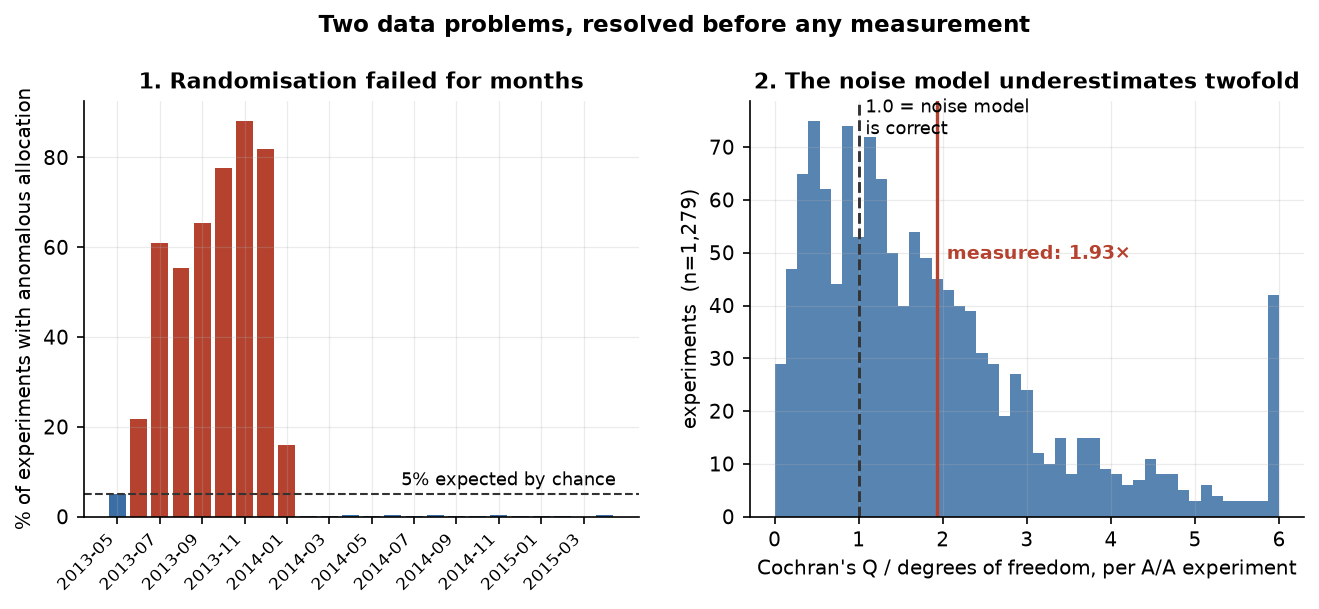
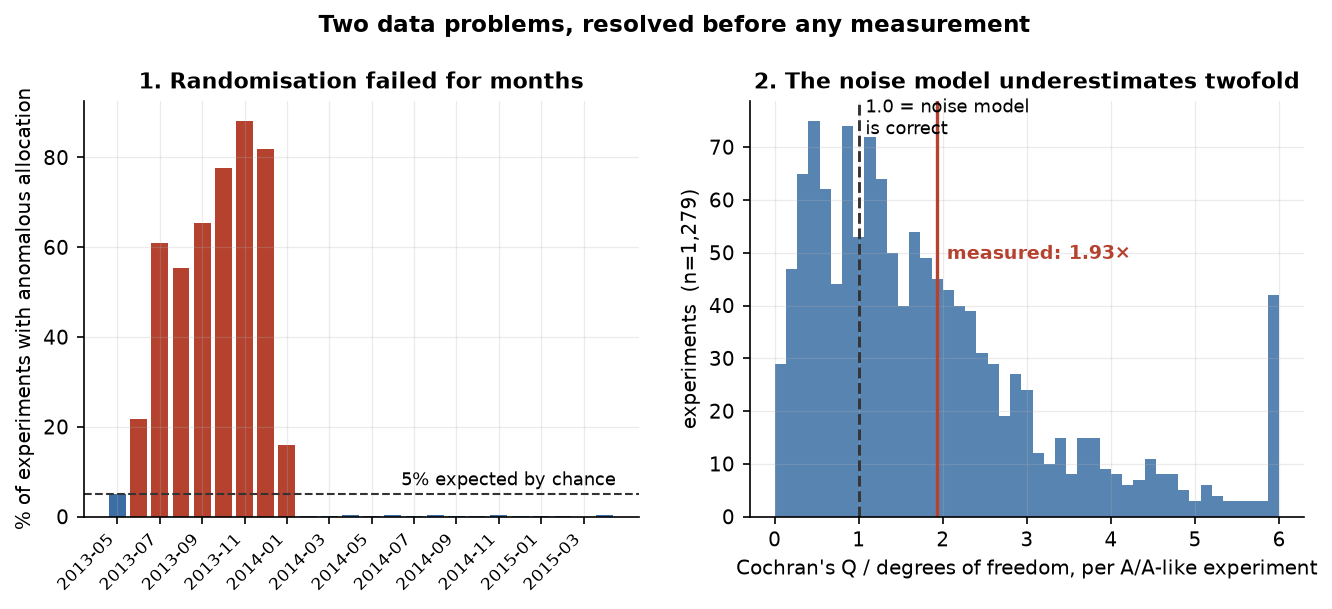
Release pass: semantic and bibliographic consistency before v1.0.0
A seventh review found no analysis problem. Everything here is text,
with one figure label and one reproducibility recipe.

The bibliographic error worth naming: papers.md cited the Upworthy
author correction as 10.1038/s41597-024-03575-8. The correction is
10.1038/s41597-024-03600-w, which is the one verified earlier in this
work for the affected window and the 7,004 tests. I could not confirm
what 03575-8 actually is and make no claim about it.

A real reproducibility defect: the lock file's header said "to
reproduce the published figures: pip install -r requirements-lock.txt".
The snapshot comes from pip freeze --exclude-editable, so wcab is not
in it, and with a src/ layout nothing is importable afterwards. The
recipe now pins the dependencies and then adds the project with
--no-deps.

A logical contradiction I introduced in the previous commit: "a 0.8 pp
bar reflects this archive's costs and margins" sits a few lines from
the statement that the archive contains no costs or margins. The
thresholds are illustrative practical-effect bars and now say so.

Terminology, carried through the modules rather than only the README:
noise.py asserted that the true difference in an A/A experiment is
"zero by construction" and then explained that unpublished fields may
have varied. Both cannot hold. These are A/A-like experiments inferred
from recorded treatment fields, the zero-effect premise is an
assumption, and the design factor is a working variance multiplier
[…]

diff --git a/src/wcab/diagnostics/noise.py b/src/wcab/diagnostics/noise.py
@@ -5,13 +5,16 @@ there is a closed form — p(1-p)/n — but that formula assumes an arm's impres
 are independent, and in online experimentation they rarely are: the same visitor
 may see several, and there are time-of-day and traffic-source effects.
 
-A/A experiments provide the yardstick. If no public field varies between an
-experiment's arms, the true difference is zero by construction, so **all** of the
-observed dispersion should correspond to the calculated noise. Cochran's Q should
-then average k-1.
+A/A-like experiments provide the yardstick: experiments in which no *recorded*
+treatment field varies between arms. These are inferred from what the archive
+publishes, not deliberately designed A/A tests, so the zero-effect premise is an
+assumption rather than a construction. **Under the assumption that no unrecorded
+treatment attribute varied**, all of the observed dispersion should correspond to
+the calculated noise and Cochran's Q should average k-1.
 
-If it is larger, `v` is underestimated by a **design factor** that must be
-corrected before use. This is precisely Spotify's warning: a poorly calibrated
+If it is larger, the observed dispersion exceeds the binomial benchmark. The
+project uses that ratio as a working variance multiplier, while acknowledging
+that clustering and unrecorded treatment variation cannot be separated here. This is precisely Spotify's warning: a poorly calibrated
 prior decides worse than not correcting at all.
 
 What this module does **not** do is settle the explanation. Excess dispersion may
@@ -52,7 +55,7 @@ class Calibration:
         return (
             f"noise calibration: {status}\n"
             f"  Q/dof = {self.q_over_dof:.3f} (should be ~1.00) over "
-            f"{self.experiments:,} A/A experiments\n"
+            f"{self.experiments:,} A/A-like experiments\n"
             f"  median per experiment = {self.median_q_over_dof:.3f}\n"
             f"  fraction with p<0.05 = {self.fraction_p_005:.3f} "
             f"(should be ~0.05)\n"
@@ -86,7 +89,7 @@ def cochran_q(panel: pd.DataFrame) -> pd.DataFrame:
 
 
 def calibrate(panel: pd.DataFrame, tolerance: float = 0.15) -> Calibration:
-    """Test the noise model against the A/A experiments.
+    """Test the noise model against the A/A-like experiments.
 
     `tolerance` is how far Q/dof may stray from 1 before the calibration is judged
     unsound. The value 0.15 is deliberately generous: what matters is detecting a
@@ -94,11 +97,11 @@ def calibrate(panel: pd.DataFrame, tolerance: float = 0.15) -> Calibration:
     """
     aa = panel.loc[panel["is_aa"]]
     if aa.empty:
-        raise ValueError("no A/A experiments in the panel: calibration is impossible")
+        raise ValueError("no A/A-like experiments in the panel: calibration is impossible")
 
     q = cochran_q(aa)
     if q.empty:
-        raise ValueError("no A/A experiment is usable for Cochran's Q")
+        raise ValueError("no A/A-like experiment is usable for Cochran's Q")
 
     ratio = float(q["Q"].sum() / q["dof"].sum())
     p = stats.chi2.sf(q["Q"].to_numpy(), q["dof"].to_numpy())

diff --git a/src/wcab/portfolio.py b/src/wcab/portfolio.py
@@ -1,10 +1,11 @@
 """Phase E: the decision BETWEEN experiments, which is where improvement is possible.
 
-Phase D found that shrinkage cannot change which arm is selected **within** an
-experiment: with a near-uniform alpha and a common target, theta-tilde is a
-monotone transformation of theta-hat and preserves the ordering. This is not a
-failure of the method — with balanced arms there is no selection problem to
-improve upon.
+Phase D found that shrinkage barely changes which arm is selected **within** an
+experiment. An alpha that is *equal* across an experiment's arms makes
+theta-tilde a common monotone transformation of theta-hat, which preserves the
+ordering exactly; here alpha is near-uniform rather than uniform, and 99.8% of
+selections are unchanged. This is not a failure of the method — with balanced
+arms there is almost no within-experiment ranking problem to improve upon.
 
 The condition that makes the selection problem real has a name in the
 literature: **heterogeneous precision** (Gu and Koenker, *Invidious Comparisons:

diff --git a/src/wcab/panel.py b/src/wcab/panel.py
@@ -9,7 +9,7 @@ Columns:
     date  week  varies_headline  varies_image  is_aa  sample
 
 `v` is the binomial variance of the rate, and it is **underestimated**: the audit
-measured Q/dof = 1.927 over the A/A experiments, close to twice the dispersion the
+measured Q/dof = 1.927 over the A/A-like experiments, close to twice the dispersion the
 formula predicts. For that reason `v` is exposed as it is (naive) and the design
 factor correction is applied explicitly in `shrinkage/`, where the two can be
 compared. Nothing is corrected silently here.

diff --git a/scripts/11_figures.py b/scripts/11_figures.py
@@ -133,7 +133,7 @@ def fig_checks(p) -> None:
     a2.axvline(cal.q_over_dof, lw=1.6, color=HARMS)
     a2.text(cal.q_over_dof + 0.12, a2.get_ylim()[1] * 0.62,
             f"measured: {cal.q_over_dof:.2f}×", fontsize=9, color=HARMS, weight="bold")
-    a2.set_xlabel("Cochran's Q / degrees of freedom, per A/A experiment")
+    a2.set_xlabel("Cochran's Q / degrees of freedom, per A/A-like experiment")
     a2.set_ylabel(f"experiments  (n={len(qs):,})")
     a2.set_title("2. The noise model underestimates twofold")
 

diff --git a/scripts/03_calibration.py b/scripts/03_calibration.py
@@ -1,7 +1,8 @@
 """Step 1: the verdict on the noise model.
 
-Tests v = p(1-p)/n against the dispersion observed in the A/A experiments, where
-the true difference between arms is zero by construction.
+Tests v = p(1-p)/n against the dispersion observed in the A/A-like experiments:
+those in which no recorded treatment field varies between arms, where the true
+difference is zero under the assumption that nothing unrecorded varied either.
 
 Output: reports/results/03_calibration.json
 """

diff --git a/README.md b/README.md
@@ -94,7 +94,7 @@ Uncertainty is reported as a **95% cluster-bootstrap percentile interval**, resa
 
 **The winner's curse is real and substantial:** the deployed variant promises 1.792% and delivers 1.553%, a **15.4% relative overstatement**. It is a selection effect rather than a measurement effect: choosing a variant at random yields an inflation a hundred times smaller.
 
-**That magnitude is specific to how much data selects the winner, and the dependence was measured.** Halving the selection sample raises it by 41%; devoting 70% of the counts to selection lowers it by 21%. This is the known power dependence of the curse showing up as theory says it should, so the figure is read as *the curse under a half-split on this archive*, never as a constant of the phenomenon. **The sign and the substance hold at every split tested.**
+**That magnitude is specific to how much data selects the winner, and the dependence was measured.** Reducing the selection share from 50% to 30% raises the estimated inflation by 41%; allocating 70% to selection lowers it by 21%. This is the known power dependence of the curse showing up as theory says it should, so the figure is read as *the curse under a half-split on this archive*, never as a constant of the phenomenon. **The sign and the substance hold at every split tested.**
 
 **The correction does not fix what most people assume it fixes.** But the four decisions were not all specified at the same time, and that distinction is kept visible below rather than smoothed over.
 
@@ -122,11 +122,11 @@ These were devised **after the confirmatory sample had already been unblinded** 
 | **3. Whether to ship** | At a 0.8 pp bar the uncorrected policy delivers **negative** value, −0.0064 pp, while shrinkage delivers +0.0119 pp |
 | **BHS** (Meta, 2025) | Better fit and lower held-out estimation error, −28.1% |
 | **Regime comparison** | Under their arm-quality filter no clear difference is detected, which is not an equivalence result and does not reproduce their two-arm construction |
-| **Split sensitivity** | Magnitudes move with the split; the direction of every published conclusion does not |
+| **Split sensitivity** | Winner inflation stays positive, and the estimation-error and prioritisation conclusions keep their direction, across every allocation tested |
 
 ![The four decisions](reports/figures/03_four_decisions.png)
 
-What an experimentation lead should take away: **the correction serves to stop overstating results and to decide whether an improvement is worth deploying; it does not serve to choose better among candidates.** The distinction is not a nuance — it is a quarter of engineering effort well or poorly invested.
+What an experimentation lead should take away: **the correction clearly reduces overstatement in what gets reported, and it does not materially improve within-experiment ranking.** For threshold-based deployment decisions it shows promising value in this archive, which is a Stage 2 result rather than a settled one. The distinction between the three is not a nuance — it is a quarter of engineering effort well or poorly invested.
 
 ---
 
@@ -160,7 +160,7 @@ What an experimentation lead should take away: **the correction serves to stop o
 
 *Stage 2 — devised after the confirmatory sample had been unblinded. It requires independent confirmation.*
 
-* **This project treats threshold deployment as a decision separate from ranking, consistent with recent decision-oriented experimentation work.** Ranking is invariant to a monotone transformation, so shrinkage cannot change the argmax. **Comparison against an absolute threshold is not invariant**: shrinkage changes the value, and therefore changes whether it crosses the line.
+* **This project treats threshold deployment as a decision separate from ranking, consistent with recent decision-oriented experimentation work.** A common, strictly increasing transformation preserves ranking, so in the nearly homogeneous within-experiment setting here shrinkage is almost ranking-invariant. **Comparison against an absolute threshold is not invariant at all**: shrinkage changes the value, and therefore changes whether it crosses the line.
 
 * **What is measured is the value the policy delivers, not how often it agrees with a second measurement.** For a threshold *u*, the policy ships arm *i* when its estimate clears the bar, and the value realised is what the independent evaluation partition says it delivered against that bar:
 
@@ -187,7 +187,7 @@ Every interval above comes from 2,000 cluster-bootstrap replicates over three th
 
 ![The ship decision](reports/figures/04_ship_decision.png)
 
-## 4. The reported figure: improves, and the most recent variant improves further
+## 4. The reported figure: improves, and Meta's local-shrinkage variant improves further
 
 * **The standard correction reduces estimation error by 24.0%**, replicated across both samples. This is what prevents promising the business improvements that never arrive.
 
@@ -211,7 +211,7 @@ For an experimentation team evaluating whether to adopt the correction:
 
 * **The central assumption of the correction is that the true value does not depend on the precision with which it was measured.** **Before using it to prioritise across experiments, diagnose whether precision proxies are associated with realised outcomes. A negative association is a warning signal to evaluate out of sample, not a deterministic predictor of failure.** Here it is −0.12 unadjusted and remains negative within week and, separately, within experiment type.
 
-* **Variance is the input on which the entire method depends, and here it was underestimated twofold.** **Audit it against A/A experiments before anything else, and if the platform does not run them, start there**, because without an independent benchmark there is no way to establish whether it is correctly measured.
+* **Variance is the input on which the entire method depends, and here it was underestimated twofold.** **Audit it against A/A or A/A-like experiments before anything else, and if the platform does not run them, start there**, because without an independent benchmark there is no way to establish whether it is correctly measured.
 
 * **A winner's advantage is an already-selected statistic, and the method assumes an estimate that is not.** **When evaluating shrinkage on already-selected winners from the same observed counts, separate selection, estimation and evaluation**; this project uses a three-way thinning split for that purpose, because with only two parts the between-experiment dispersion collapsed to zero and the correction ceased to function. **This is an evaluation design, not an operational requirement**: applying shrinkage in production normally means estimating the prior from a corpus of past experiments, as Microsoft reported doing at Bing, and no three-way split of the current experiment is involved.
 
@@ -233,7 +233,7 @@ For an experimentation team evaluating whether to adopt the correction:
 
 * **Monte Carlo variability from the thinning split is reported separately from sampling uncertainty, and in one place it dominates.** On the 1,277 experiments the regime filter retains, the spread across thinning seeds (0.125 pp) exceeds the bootstrap standard error (0.068 pp): at that sample size the choice of split moves the answer more than the sample does.
 
-* **A single publisher, a single metric, 2013–2015, and aggregated data without person-level detail.** There are no segments or user characteristics. **The evaluation procedure and the threshold-based decision framework transfer; the numerical thresholds and effect sizes do not.** A 0.8 pp bar reflects this archive's costs and margins, and means nothing on another platform. No number in this document should be used as an expectation for another platform.
+* **A single publisher, a single metric, 2013–2015, and aggregated data without person-level detail.** There are no segments or user characteristics. **The evaluation procedure and the threshold-based decision framework transfer; the numerical thresholds and effect sizes do not.** The 0.2 to 0.8 pp thresholds are illustrative practical-effect bars used to study the decision rule; **they are not estimated from deployment costs or margins, which this archive does not contain.** No number in this document should be used as an expectation for another platform.
 
 * **Two methods were ruled out, each with its reason.** Direct binomial shrinkage, **by diagnostic**: n·p has a median of 40 and only 0.1% of variants falls below 10, so the Gaussian approximation is not the source of the problem here. And Chen's reference implementation, **by declared operational cost**: it is written in R and this project is in Python; its diagnostic was nonetheless run, and it is what explains the principal finding.
 

diff --git a/papers.md b/papers.md
@@ -9,12 +9,12 @@ The works reviewed during the development of this project, with their exact refe
 **Matias, J. N., Munger, K., Aubin Le Quéré, M. and Ebersole, C.** (2021). *The Upworthy Research Archive, a time series of 32,487 experiments in U.S. media*. **Scientific Data** 8, 195.
 DOI: [10.1038/s41597-021-00934-7](https://doi.org/10.1038/s41597-021-00934-7) · Data: [osf.io/jd64p](https://osf.io/jd64p/)
 
-> The archive this project uses. It supplies the genuine randomisation, the A/A experiments and the exploratory/confirmatory split that allows the method to be frozen.
+> The archive this project uses. It supplies the genuine randomisation, the A/A-like experiments and the exploratory/confirmatory split that allows the method to be frozen.
 
 **Matias, J. N., Munger, K., Aubin Le Quéré, M. and Ebersole, C.** (2024). *Author Correction: The Upworthy Research Archive, a time series of 32,487 experiments in U.S. media*. **Scientific Data** 11.
-DOI: [10.1038/s41597-024-03575-8](https://doi.org/10.1038/s41597-024-03575-8)
+DOI: [10.1038/s41597-024-03600-w](https://doi.org/10.1038/s41597-024-03600-w)
 
-> The correction documenting the Cloudflare caching failure of 25 June 2013. It affects approximately 22% of the tests and advises against using them for causal inference. **The public CSV files carry no column identifying them**, so this project reconstructed the affected window from scratch.
+> The correction documenting the Cloudflare caching failure. It identifies **25 June 2013 to 10 January 2014** as the likely affected period, about 7,004 tests or 22%, and advises against using them for causal inference. It also added a `problem` flag to the updated main archive; **the legacy exploratory and confirmatory split files this project reads predate that flag**, so the affected window was reconstructed here from scratch.
 
 ---
 
@@ -44,7 +44,7 @@ DOI: [10.1080/01621459.1975.10479864](https://doi.org/10.1080/01621459.1975.1047
 **Cochran, W. G.** (1954). *The combination of estimates from different experiments*. **Biometrics** 10(1), 101–129.
 DOI: [10.2307/3001666](https://doi.org/10.2307/3001666)
 
-> The *Q* statistic this project uses to audit the noise model against A/A experiments. **Result: Q/df = 1.940 in the exploratory sample and 1.927 in the confirmatory sample; the binomial model underestimates noise by close to a factor of two.**
+> The *Q* statistic this project uses to audit the noise model against A/A-like experiments. **Result: Q/df = 1.940 in the exploratory sample and 1.927 in the confirmatory sample; the binomial model underestimates noise by close to a factor of two.**
 
 **DerSimonian, R. and Laird, N.** (1986). *Meta-analysis in clinical trials*. **Controlled Clinical Trials** 7(3), 177–188.
 DOI: [10.1016/0197-2456(86)90046-2](https://doi.org/10.1016/0197-2456(86)90046-2)
@@ -68,7 +68,7 @@ DOI: [10.6028/jres.087.022](https://doi.org/10.6028/jres.087.022)
 **Mudd, R., Friedberg, R., Gorbachev, I., Nassif, H. and Zaidi, A.** (2025). *Breaking the Winner's Curse with Bayesian Hybrid Shrinkage*. Meta Platforms. Presented at the **Conference on Digital Experimentation @ MIT (CODE@MIT'25)**.
 arXiv: [2511.06318](https://arxiv.org/abs/2511.06318)
 
-> The most recent variant, implemented in `src/wcab/shrinkage/bhs.py`. It adds **local** shrinkage factors per experiment through an inverse-gamma prior on the scale, which is equivalent to a Student-t prior.
+> The BHS variant implemented in `src/wcab/shrinkage/bhs.py`, presented at CODE@MIT 2025. A later and more developed preprint appeared in March 2026 ([arXiv:2603.12867](https://arxiv.org/abs/2603.12867), *Breaking the Winner's Curse with Bayesian Hybrid Shrinkage*, with an expanded author list); this project implements the earlier version and was not revalidated against it. It adds **local** shrinkage factors per experiment through an inverse-gamma prior on the scale, which is equivalent to a Student-t prior.
 >
 > The paper names its own base case: with λᵢ = 1 for all i it reduces to what the authors call *"Bayesian Global Shrinkage"*, which is standard shrinkage.
 >
@@ -85,14 +85,14 @@ arXiv: [2608.12949](https://arxiv.org/abs/2608.12949) (13 August 2026)
 >
 > Two statements this project uses directly. From the conclusion: *"error rates, estimation accuracy, and regret are all different risks, and the appropriate method follows from the risks an experimentation program needs to control, not the other way around."*
 >
-> And from the abstract, which states the obstacle this project resolves: *"winner-selected corpora, pooled programs, and heterogeneous metrics can each prevent calibration **regardless of corpus size**."* The authors further demonstrate that collecting more data from the same biased source does not help. This project's answer is the three-way split.
+> And from the abstract: *"winner-selected corpora, pooled programs, and heterogeneous metrics can each prevent calibration **regardless of corpus size**."* Their point concerns the historical corpus the prior is fitted on — one kept only because those experiments won — and more data from the same biased source does not fix it. **This project avoids that by fitting on the complete archive rather than a winners-only subset.** Its three-way thinning answers a different question: preventing the same observed counts from serving at once for winner selection, effect estimation and evaluation.
 
 **Gu, J. and Koenker, R.** (2023). *Invidious Comparisons: Ranking and Selection as Compound Decisions*. **Econometrica** 91(1), 1–41.
 DOI: [10.3982/ECTA19304](https://doi.org/10.3982/ECTA19304)
 
 > That the loss function determines which ordering is optimal. Two results this project uses:
 >
-> - Under **homogeneous variance**, the posterior mean, the tail probability and the tail expectation **produce the same ordering**. This is the degenerate case into which decision 1 falls, and it explains why shrinkage cannot change which variant is deployed.
+> - Under **homogeneous variance**, the posterior mean, the tail probability and the tail expectation **produce the same ordering**. Decision 1 lies close to this homogeneous-variance case, which is what explains its observed 99.8% ranking invariance rather than an exact one.
 > - Under a capacity constraint, the posterior mean **favours units with smaller variance** while the tail probability **prefers those with larger variance**. This explains why the tail rule loses when the criterion is realised gain.
 
 **Chen, J.** (2026). *Empirical Bayes When Estimation Precision Predicts Parameters*. **Econometrica** 94(2).
@@ -139,7 +139,7 @@ DOI: [10.1177/1745691614551642](https://doi.org/10.1177/1745691614551642)
 **Deng, A.** (2015). *Objective Bayesian Two Sample Hypothesis Testing for Online Controlled Experiments*. In **Proceedings of the 24th International Conference on World Wide Web (WWW '15 Companion)**, pp. 923–928.
 DOI: [10.1145/2740908.2742563](https://doi.org/10.1145/2740908.2742563)
 
-> Priors estimated from the historical record of experiments at Bing. This is the basis for stating that shrinkage is **in production** at Microsoft rather than only in papers.
+> Priors estimated from the historical record of experiments at Bing. Deng reports the method being **applied successfully at Bing, with thousands of past experiments used to set the priors**, which is what the README states. It does not by itself establish a continuing production deployment, and this project does not claim one.
 
 **Dimmery, D., Bakshy, E. and Sekhon, J.** (2019). *Shrinkage Estimators in Online Experiments*. In **Proceedings of the 25th ACM SIGKDD Conference (KDD '19)**.
 arXiv: [1904.12918](https://arxiv.org/abs/1904.12918)
